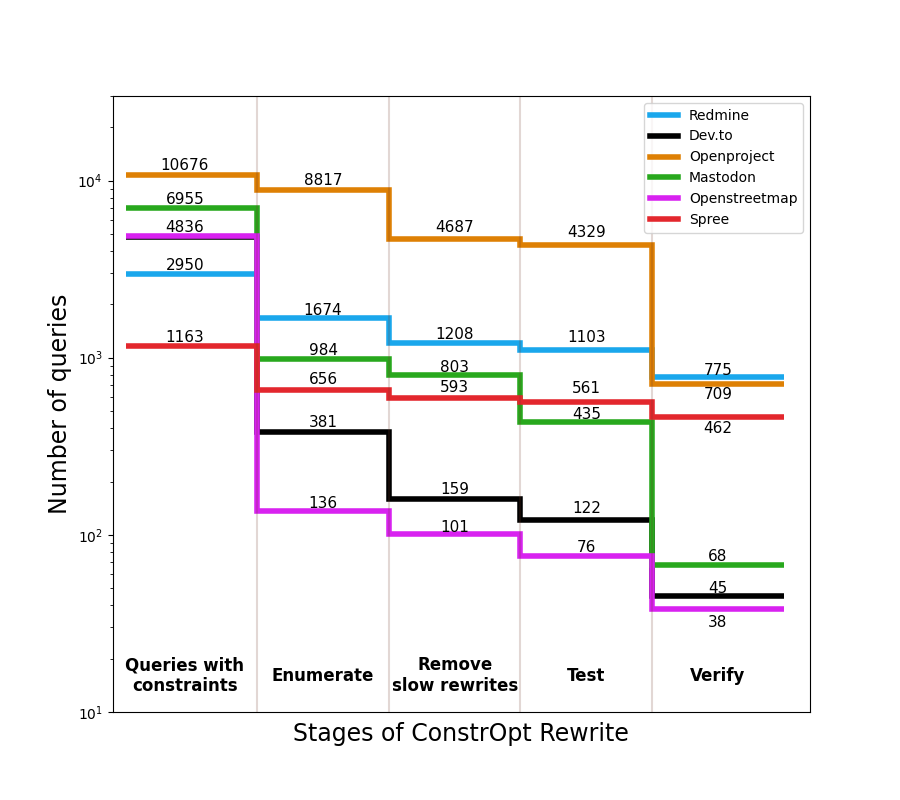
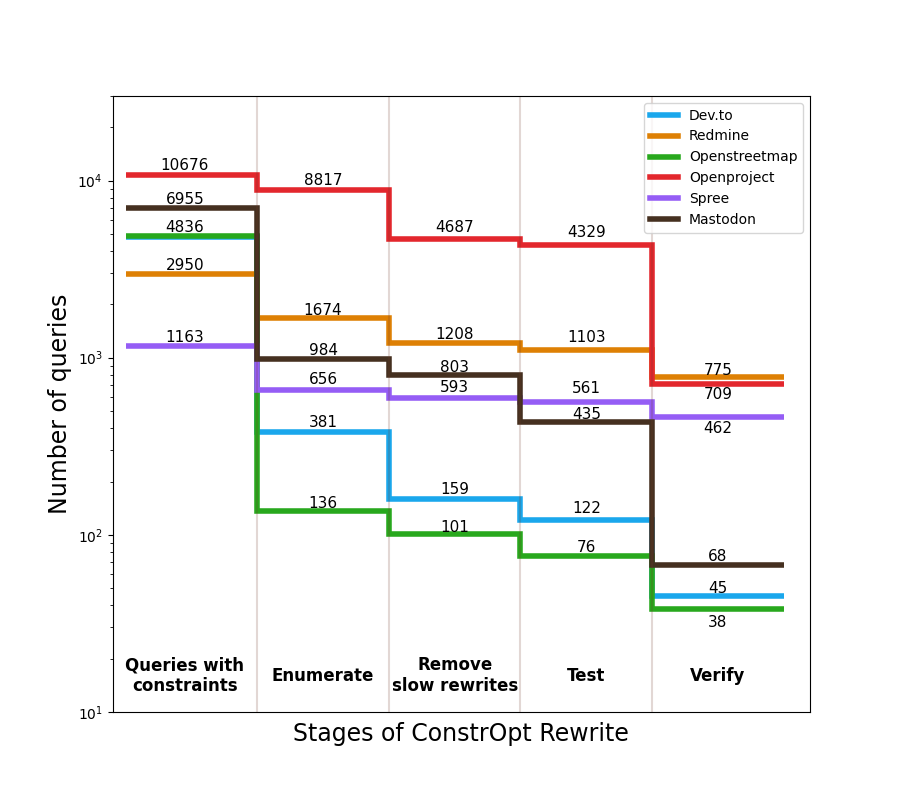
make color and order consistent

Changed region(s): [[0.1244, 0.125, 0.9022, 0.7812]]

diff --git a/constropt/autrite/experiment_plots/plot_rewrite_cnt.py b/constropt/autrite/experiment_plots/plot_rewrite_cnt.py
@@ -54,18 +54,18 @@ fig.set_size_inches(9, 8)
     
 x = [1, 2, 3, 4, 5, 6]
 BLUE = "#1AA7EC"
-BLACK = "black"
+BLACK = "#453020"
 ORANGE = "#de8004"
 GREEN = "#28a81d"
-PURPLE = "#d822f0"
+PURPLE = "#955df5"
 RED = "#e3272d"
-colors = [BLUE, BLACK, ORANGE, GREEN, PURPLE, RED]
-data = {'Redmine': redmine, 'Dev.to' : forem, 'Openproject' : openproject,
-        'Mastodon': mastodon, 'Openstreetmap': openstreetmap, 'Spree': spree} 
+colors = {'Redmine':ORANGE, 'Dev.to': BLUE, 'Openproject': RED, 'Mastodon': BLACK, 'Openstreetmap': GREEN, 'Spree': PURPLE}
+data = {'Dev.to' : forem, 'Redmine': redmine, 'Openstreetmap': openstreetmap, 'Openproject' : openproject,
+        'Spree': spree, 'Mastodon': mastodon, } 
 patches = []
-for i, k in enumerate(data):
+for k in data:
     patches.append(plt.stairs(data[k], x, baseline=None, label=k, \
-                  lw=4, ls = "-", color = colors[i]))
+                  lw=4, ls = "-", color = colors[k]))
     
 # ============= four vertical dividing bars ============
 ax.axvline(2, alpha=0.2, color='#713b28')
